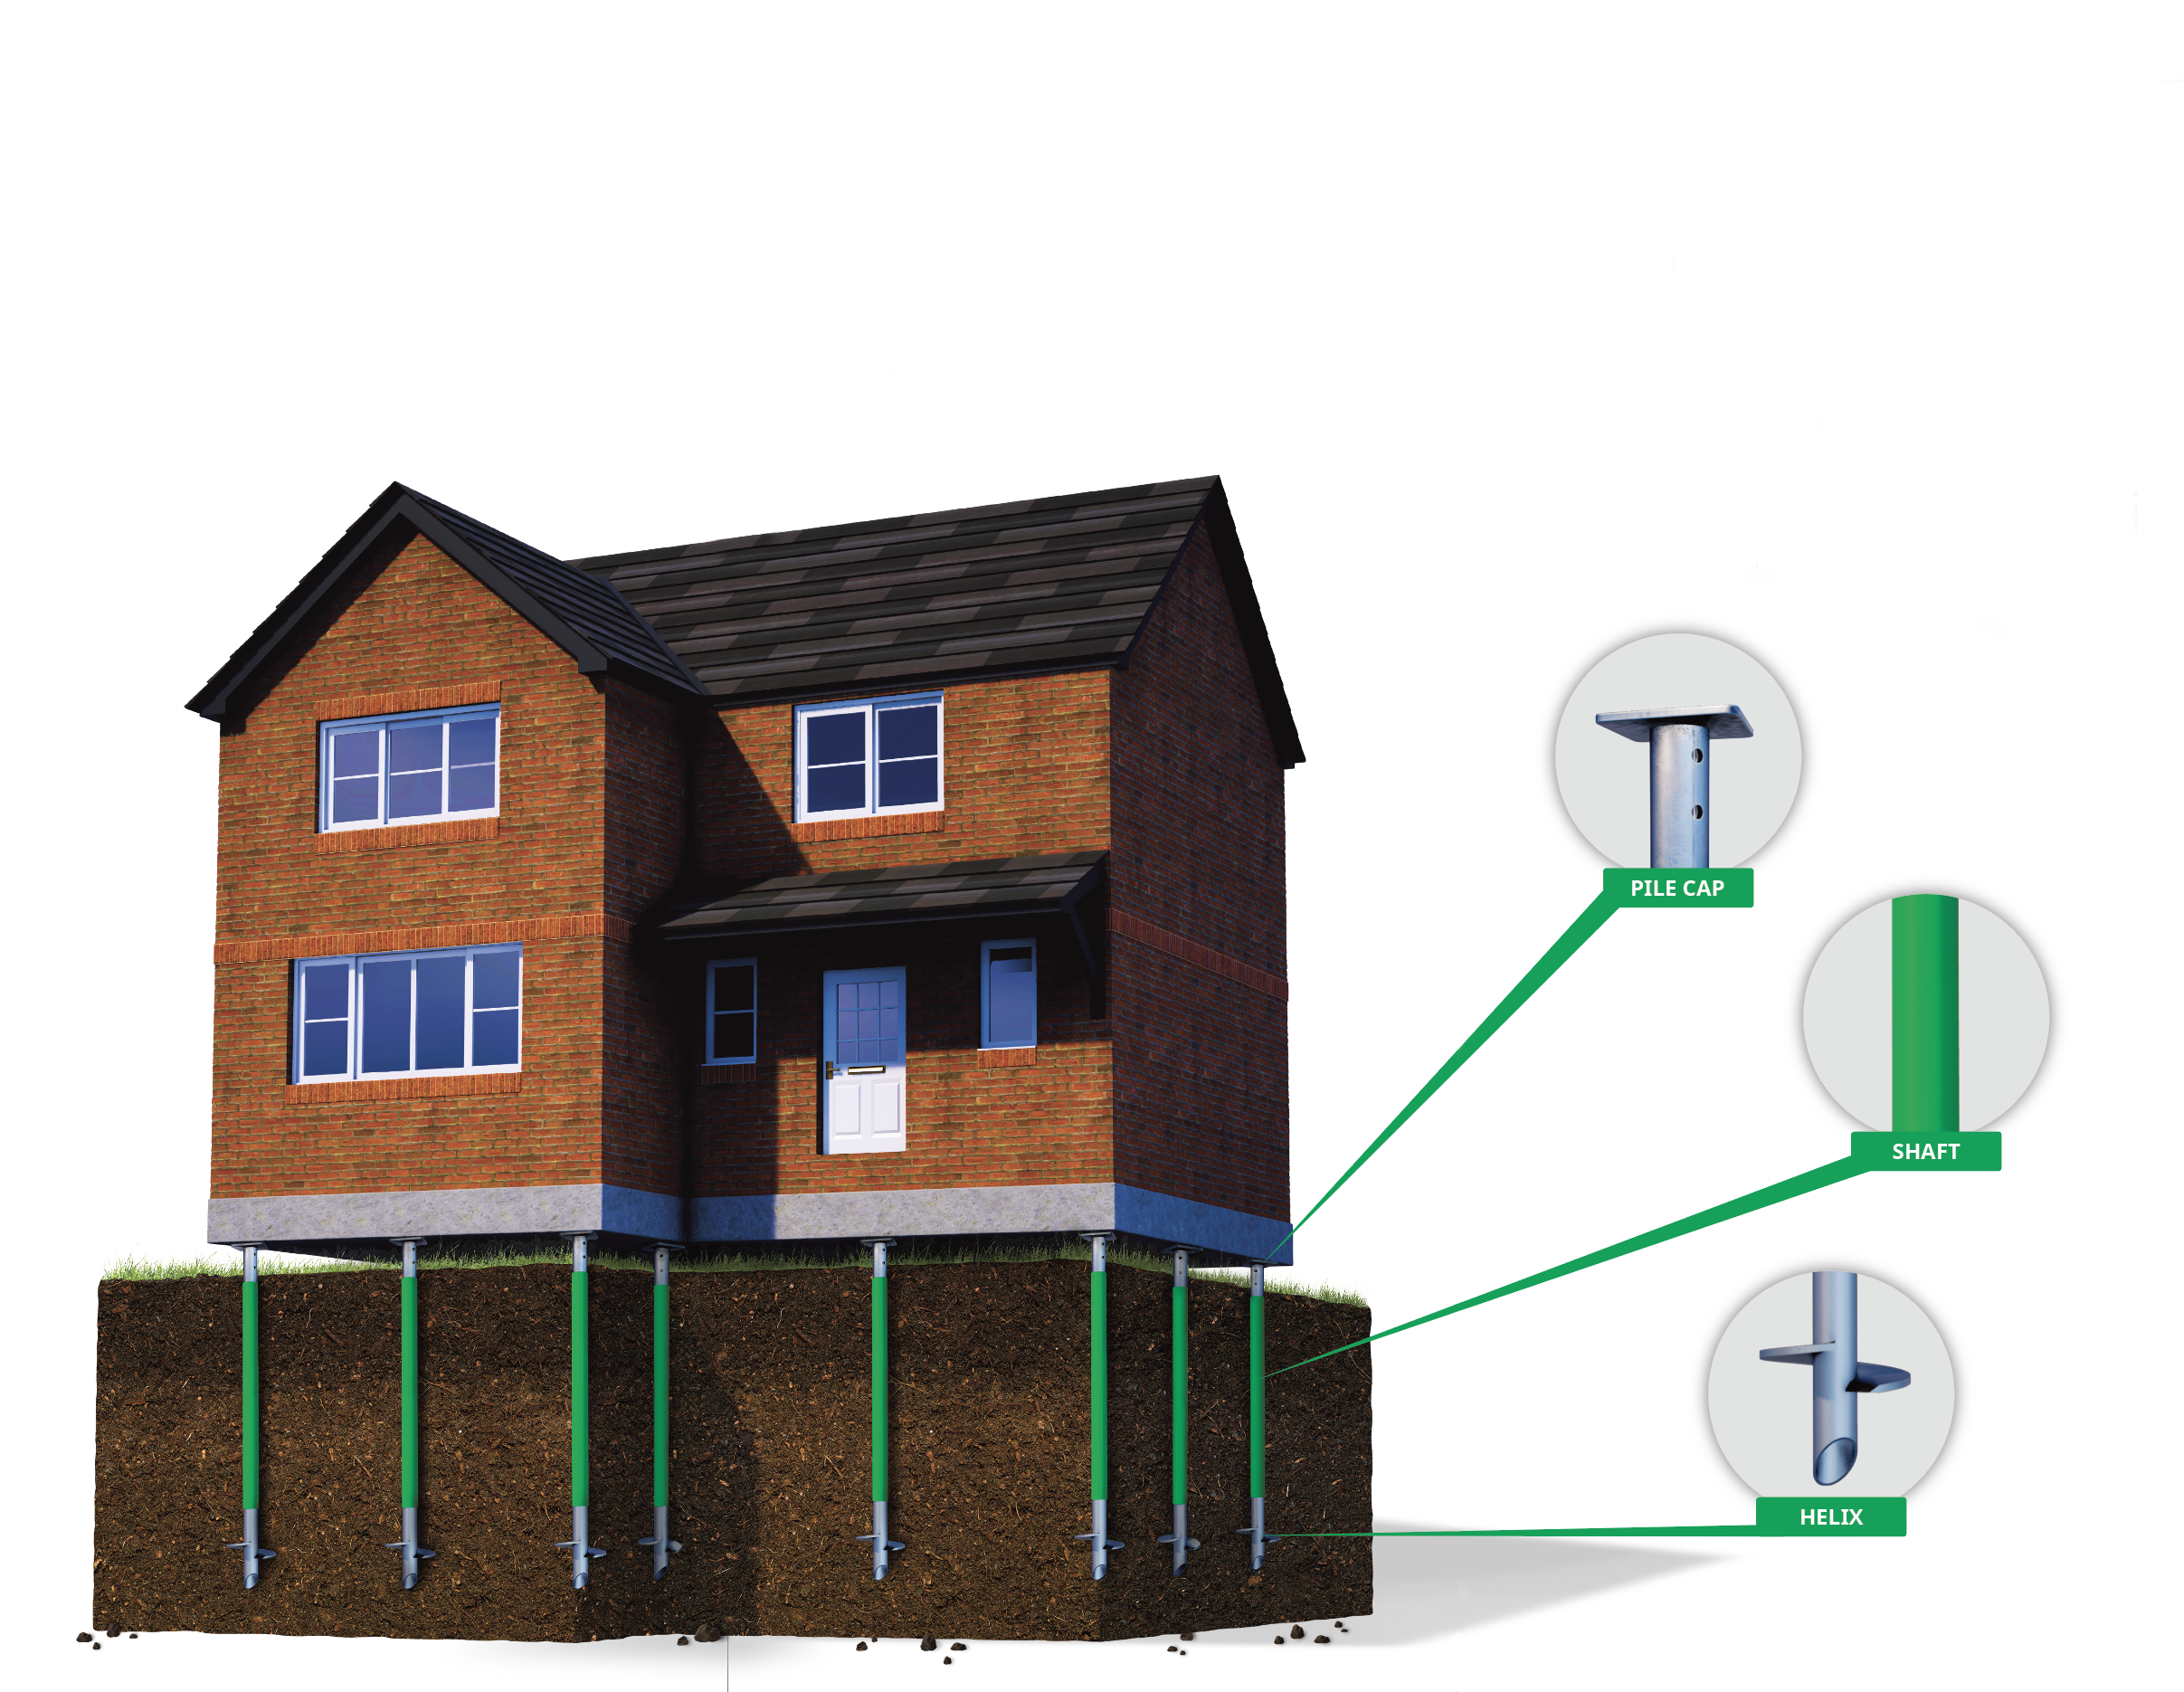
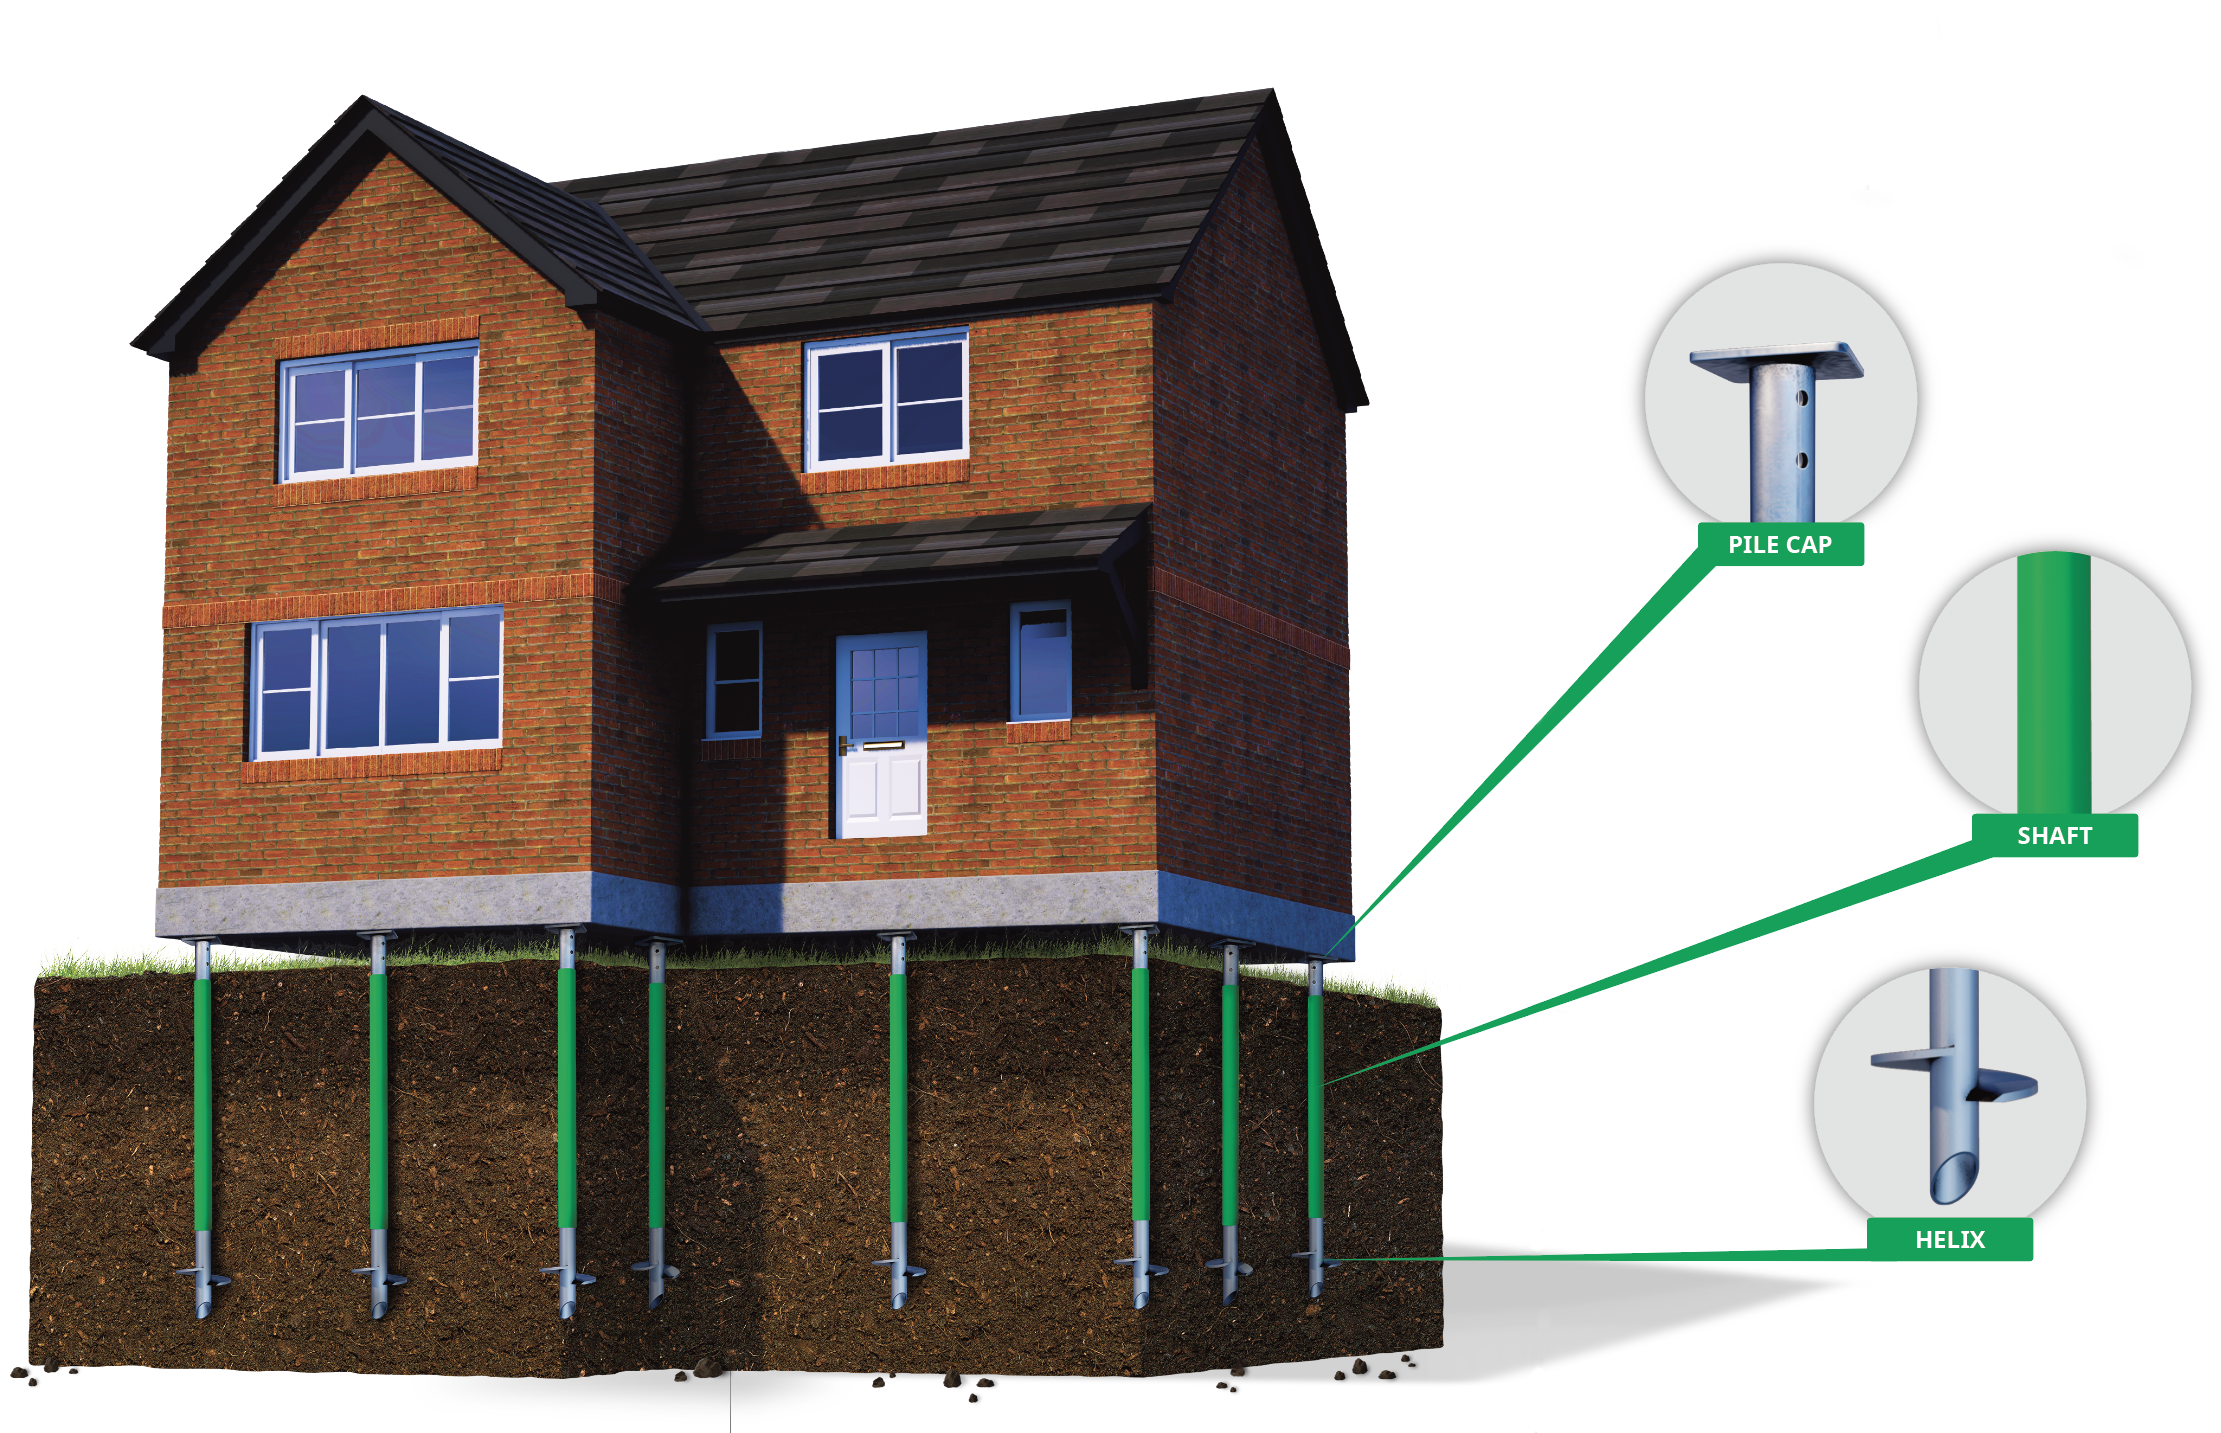
justification texte + modification photo

diff --git a/css/style.css b/css/style.css
@@ -280,6 +280,7 @@ body.contact-active .nav-logo-center {
     color: var(--text-body);
     line-height: 1.8;
     margin-top: 1rem;
+    text-align: justify;
 }
 
 .slide-icon-svg {
@@ -303,7 +304,7 @@ body.contact-active .nav-logo-center {
 .slide-media img {
     border-radius: 10px;
     object-fit: cover;
-    max-width: 60%;
+    max-width: 66%;
 }
 
 /* ── Grid 2×2 ── */